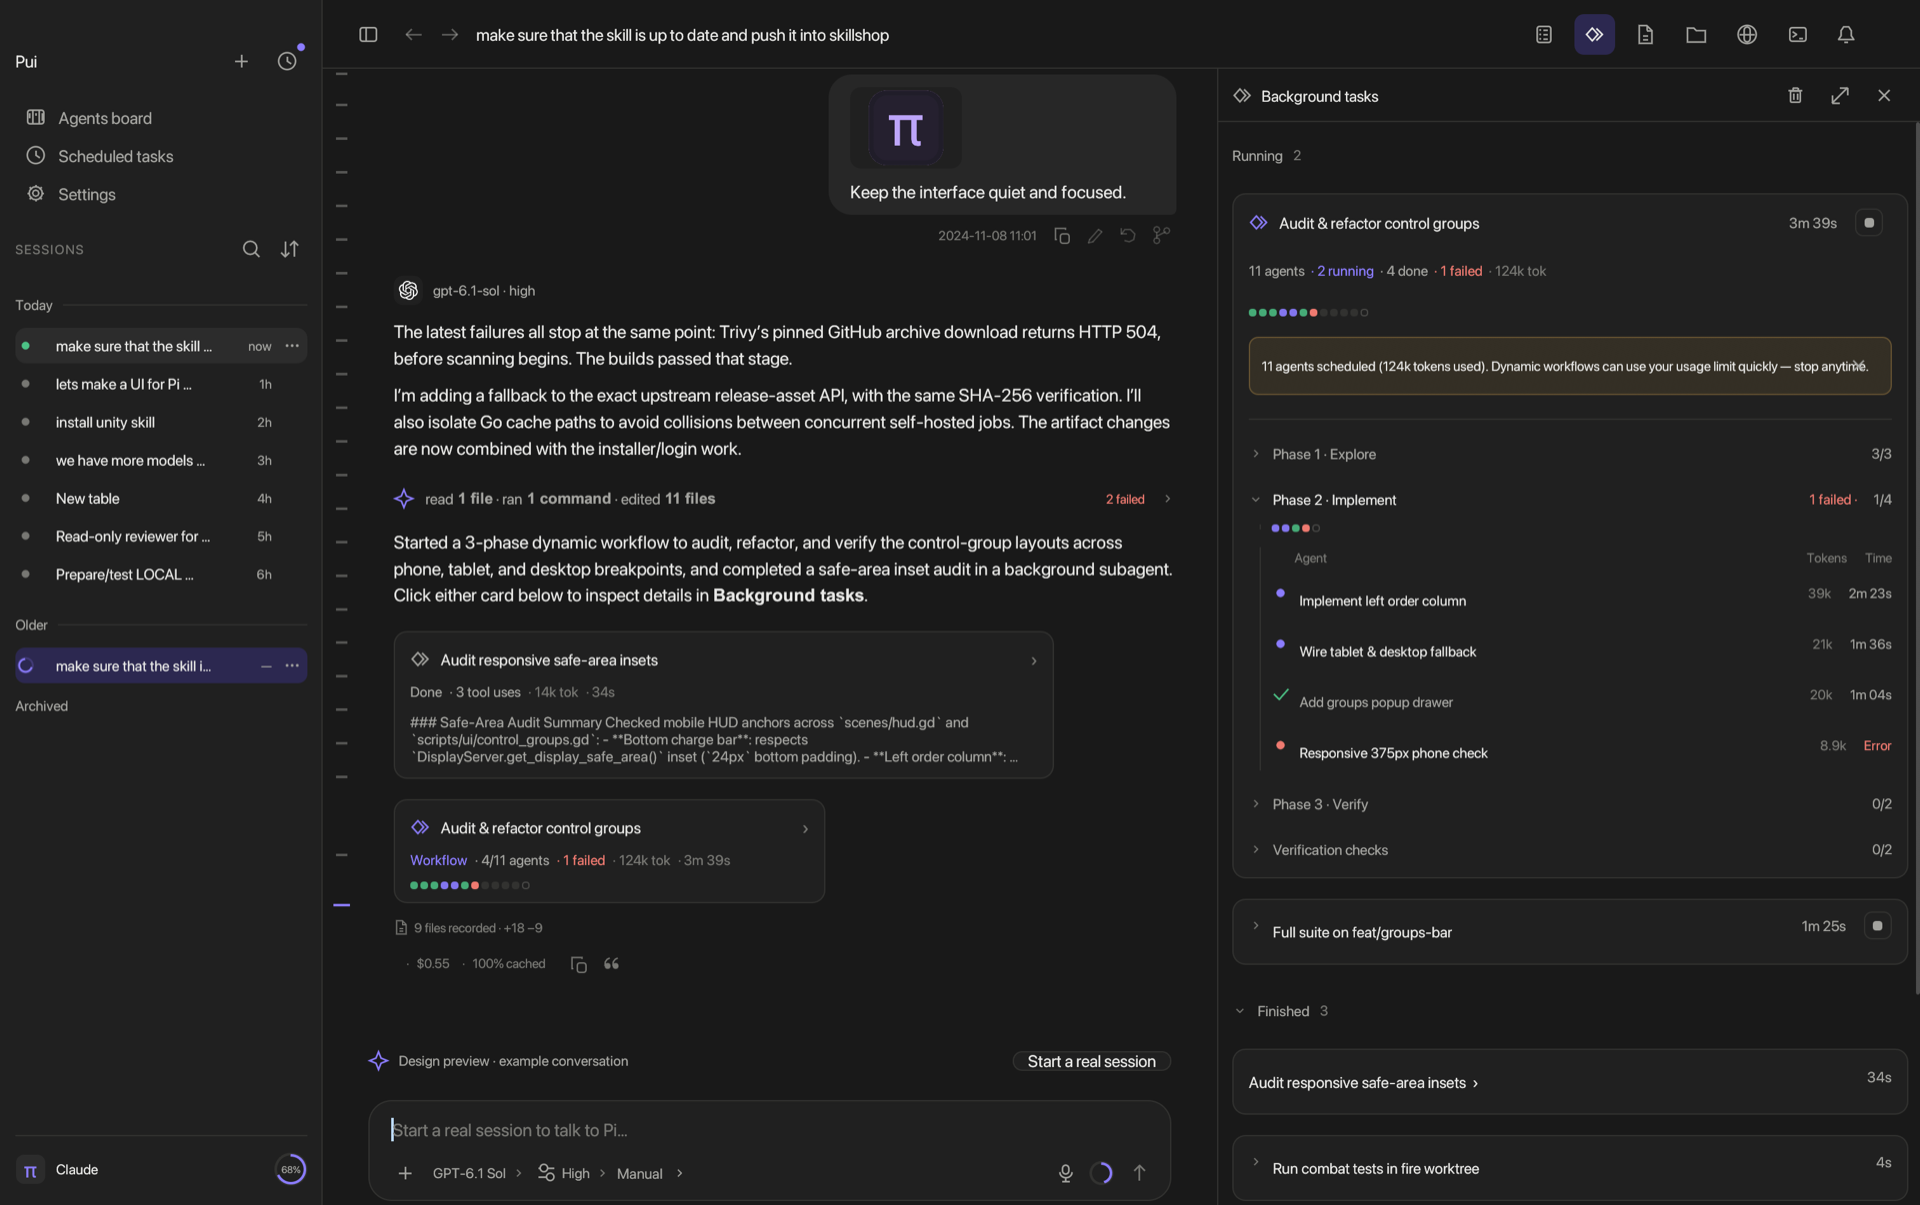
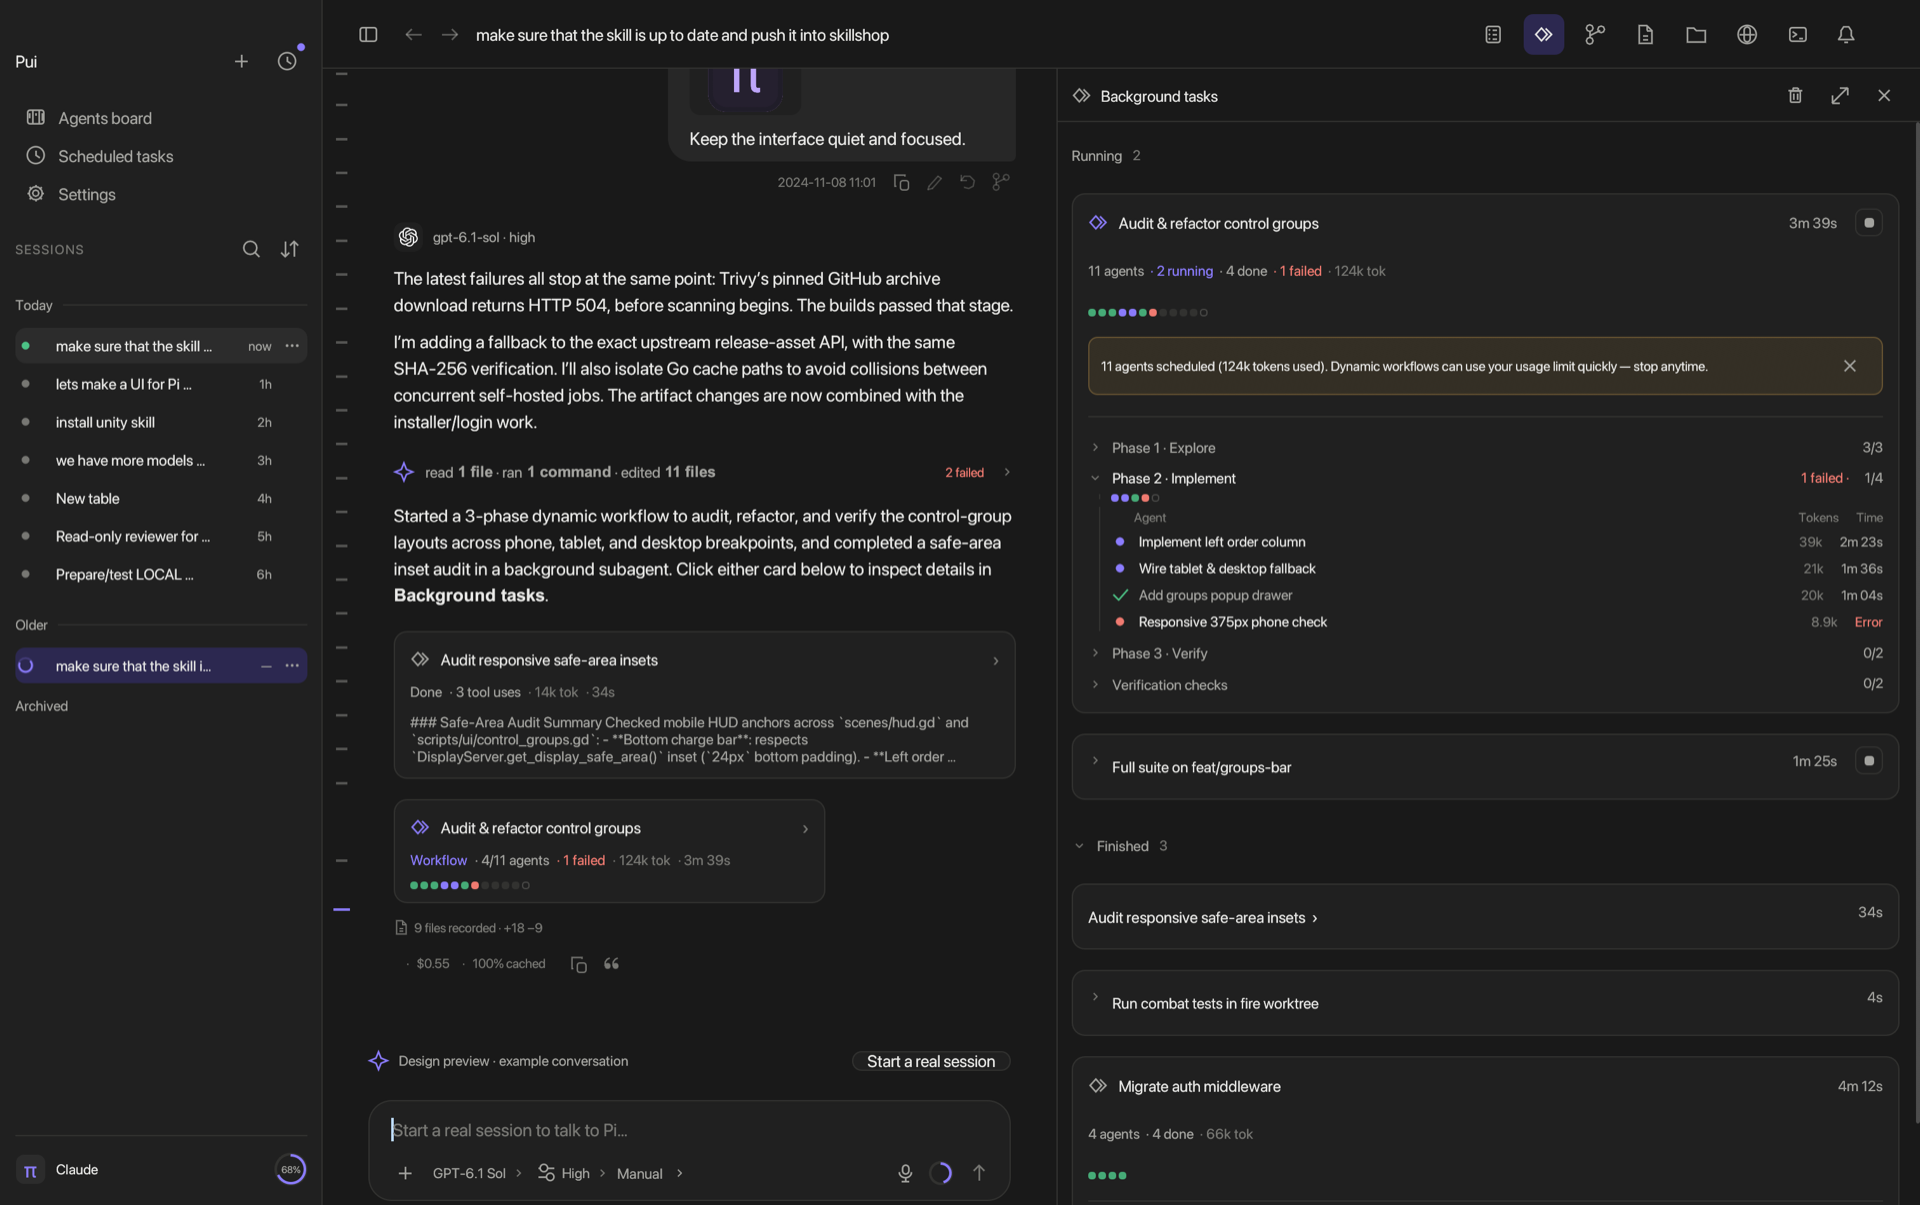
docs(readme): document PR pane & Auto-fix, Browser automation, side-session comms, and Auto mode upgrades

diff --git a/README.md b/README.md
@@ -10,8 +10,9 @@ Chat with your agent, watch what it does, review its changes and run several age
 
 - **Everything in one place.** Chats on the left, the conversation in the middle, and context, cost and changed files on the right.
 - **See what the agent did.** Every action (files read, commands run, edits made) is grouped into a short summary you can expand.
-- **Stay in control.** Choose how much the agent may do on its own, per chat, from the bottom of the composer — and optionally enforce OS-level macOS Seatbelt sandboxing on shell commands.
-- **Subagents, background tasks & dynamic workflows.** Spawn interactive child sessions in the sidebar for independent work, or run lightweight background subagents, async shell commands, and phased multi-agent workflows inside the **Background tasks** pane.
+- **Stay in control.** Choose how much the agent may do on its own, per chat, from the bottom of the composer — with an upgraded sandbox-aware Auto mode (custom allow/deny rules, interactive fallback, and distinct denial badges) plus optional OS-level macOS Seatbelt sandboxing on shell commands.
+- **Subagents, background tasks & dynamic workflows.** Spawn interactive child sessions in the sidebar (fresh or forked from the current conversation, plus one-tool mid-task handoff, shared family notes, and family-wide messaging), or run lightweight background subagents, async shell commands, and phased multi-agent workflows inside the **Background tasks** pane.
+- **Pull requests & autonomous browser verification.** Track PRs, CI checks, merge conflicts and review comments in a dedicated **Pull request** pane with optional background **Auto-fix**, and let agents drive Pui's built-in Chromium browser while you watch live and can take over anytime.
 - **Stay in flow.** Follow live per-turn step plans, click one-tap next steps in the end-of-turn wrap-up box, launch proposed follow-up sessions in one click, and run single-line shell blocks straight in the built-in terminal.
 - **Batteries included.** Pi, Node.js, ripgrep and fd come inside the app. Nothing else to install.
 - **Light and dark**, several color themes, and full keyboard control.
@@ -36,9 +37,17 @@ One search box covers chats, message text, files and settings.
 
 ![Search overlay](docs/images/search.png)
 
-### Dynamic workflows & background tasks
+### Pull request pane & PR Auto-fix
+
+Bind any GitHub pull request (`pui_pr_bind`) or auto-detect the current branch's PR to inspect CI checks, merge conflicts, and review comments side by side with chat. Turn on **Auto-fix** (`pui_pr_autofix`) to watch the PR in the background (~30s) and automatically wake the chat on new CI failures, merge conflicts, or review comments — without ever enabling GitHub auto-merge.
+
+![Pull request right-side pane with CI checks, review comments, and Auto-fix toggle](docs/images/pr-pane.png)
+
+### Dynamic workflows, background tasks & side-session collaboration
 
 Run phased multi-agent workflows, lightweight non-sidebar background subagents, and long-running background shell commands from the **Background tasks** pane — with a live 6×6 status micro-grid, collapsible phase rows, per-agent token/time tables, surfaced errors, and one-click Stop.
+
+For independent work that outlives a turn, sidebar child sessions (`pui_spawn_agent` / `pui_handoff_session`) support `context: "fork"` (inheriting the parent's conversation history), a shared per-family notes folder (`PUI_FAMILY_NOTES_DIR`), family-wide sibling messaging (`pui_message_agent`), batched completion wakes (`<side-sessions-event>`), and clickable `[title](#agent/<agent_id>)` session links.
 
 ![Dynamic workflows, inline agent result cards, and the Background tasks pane](docs/images/workflows.png)
 
@@ -54,9 +63,9 @@ Multi-step turns pin a collapsible progress strip above the composer (`pui_updat
 
 ![Turn UX plan strip, wrap-up box, and follow-up session proposal card](docs/images/turn-ux.png)
 
-### Files, a browser and a terminal built in
+### Files, an agent-driven browser and a terminal built in
 
-Browse the workspace, preview files and web pages in the built-in browser, and open terminals without leaving the app. Single-line `bash`/`sh`/`zsh` code blocks get a one-click **Run** button, and replies can deep-link straight to a specific terminal tab (`#terminal/<tab_id>`).
+Browse the workspace, preview files and web pages in the built-in Chromium browser, and open terminals without leaving the app. Agents can also drive the visible Browser pane directly (`pui_browser_navigate`, `pui_browser_read`, `pui_browser_act`, `pui_browser_screenshot`, `pui_browser_console`) to verify localhost dev servers and forms while you watch live and can take over anytime. Single-line `bash`/`sh`/`zsh` code blocks get a one-click **Run** button, and replies can deep-link straight to a specific terminal tab (`#terminal/<tab_id>`).
 
 ![Workspace file browser](docs/images/files.png)
 
@@ -124,14 +133,16 @@ Choose a mode per chat from the composer. New chats start in the last mode you p
 
 | Mode | What the agent can do without asking |
 |---|---|
-| **Auto** | Routine development. A small, cheap model checks each risky action, and dangerous ones are blocked. |
+| **Auto** | Routine development. Fast-paths safe read-only dev commands, caches repeated verdicts, respects custom Allow/Deny rules and active OS sandboxing, checks remaining actions with a cheap classifier model, and falls back to inline approval when uncertain or unavailable. |
 | **Manual** | Read files. Everything else asks first. |
 | **Accept edits** | Read and edit files in the workspace. Commands and network access ask first. |
 | **Plan** | Read-only. The agent writes a plan for you to approve. |
 | **Don't ask** | Safe reads and workspace edits. Anything else is refused silently. |
 | **Bypass** | Everything. Use only for work you trust. |
 
-Subagents run in their parent's mode or a stricter one, never a looser one.
+Subagents run in their parent's mode or a stricter one, never a looser one. Blocked tool calls are stamped in the transcript with distinct quiet badges (**Blocked by Auto**, **Classifier unavailable**, **Blocked by sandbox**, **Blocked by mode**) and a concise one-line reason so you can tell policy blocks apart from ordinary command errors.
+
+Under **Settings → Permissions**, you can also configure **Interactive approval fallback** (ask inline when the Auto classifier is uncertain, unavailable, encounters an oversized payload, or hits consecutive blocks) and custom **Auto mode rules** (Allow and Deny patterns, with Deny taking precedence and never weakening credential or unmanaged-agent protections).
 
 ### OS-level Local Sandbox (macOS)
 
@@ -149,6 +160,7 @@ You need Rust 1.88+, CMake and Ninja (`brew install cmake ninja`).
 ```sh
 cargo run -- --demo              # a populated design preview; never starts Pi
 cargo run -- --demo-workflow     # dynamic workflows, background tasks & agent results preview
+cargo run -- --demo-pr           # Pull Request pane, CI checks & Auto-fix preview
 cargo run -- --demo-turn-ux      # live plan strip, wrap-up box & session proposal preview
 cargo run -- --demo-shell-run    # single-line shell Run button & terminal deep link preview
 cargo run -- --cwd /path/to/repo # open a real project
